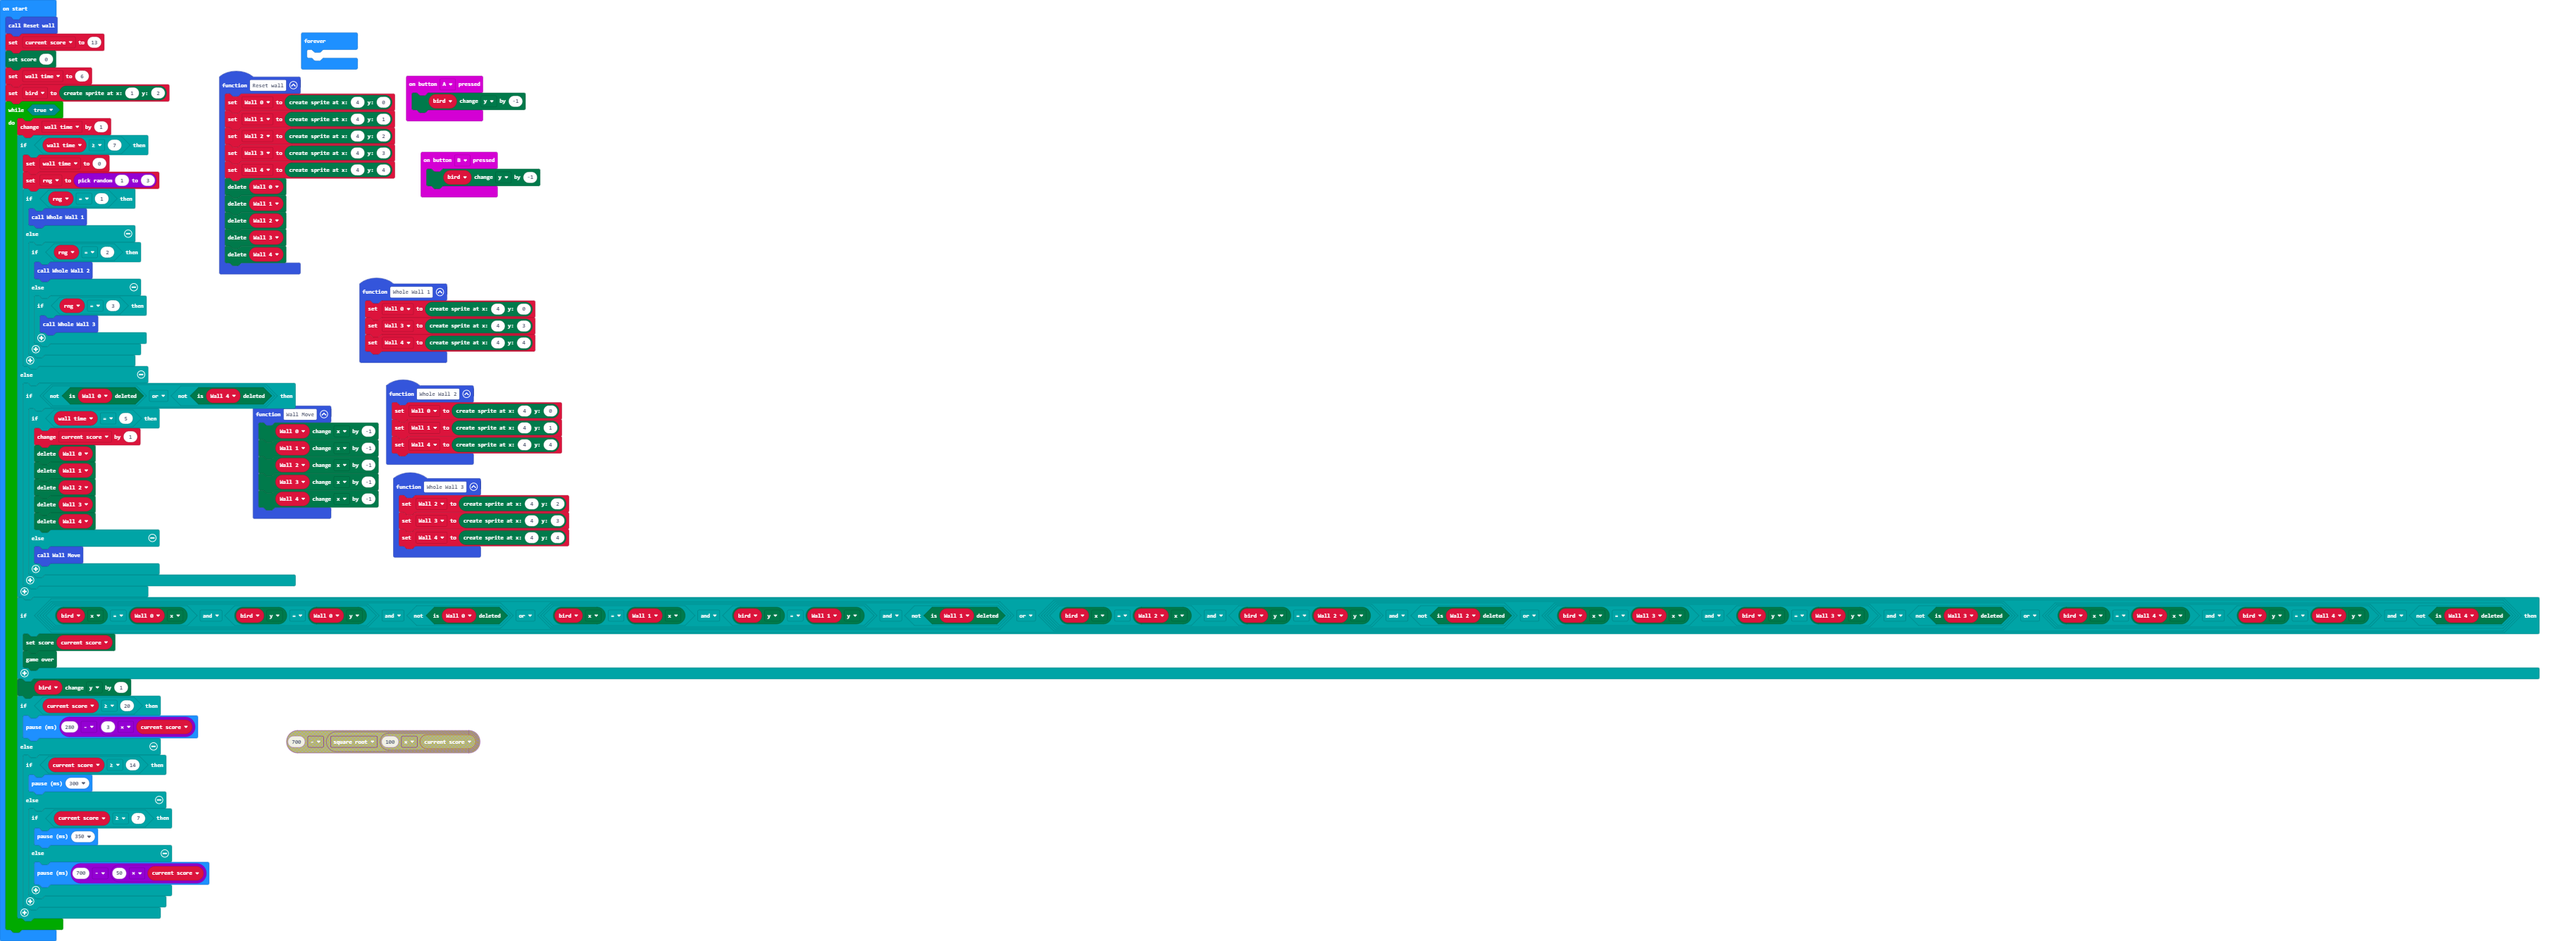
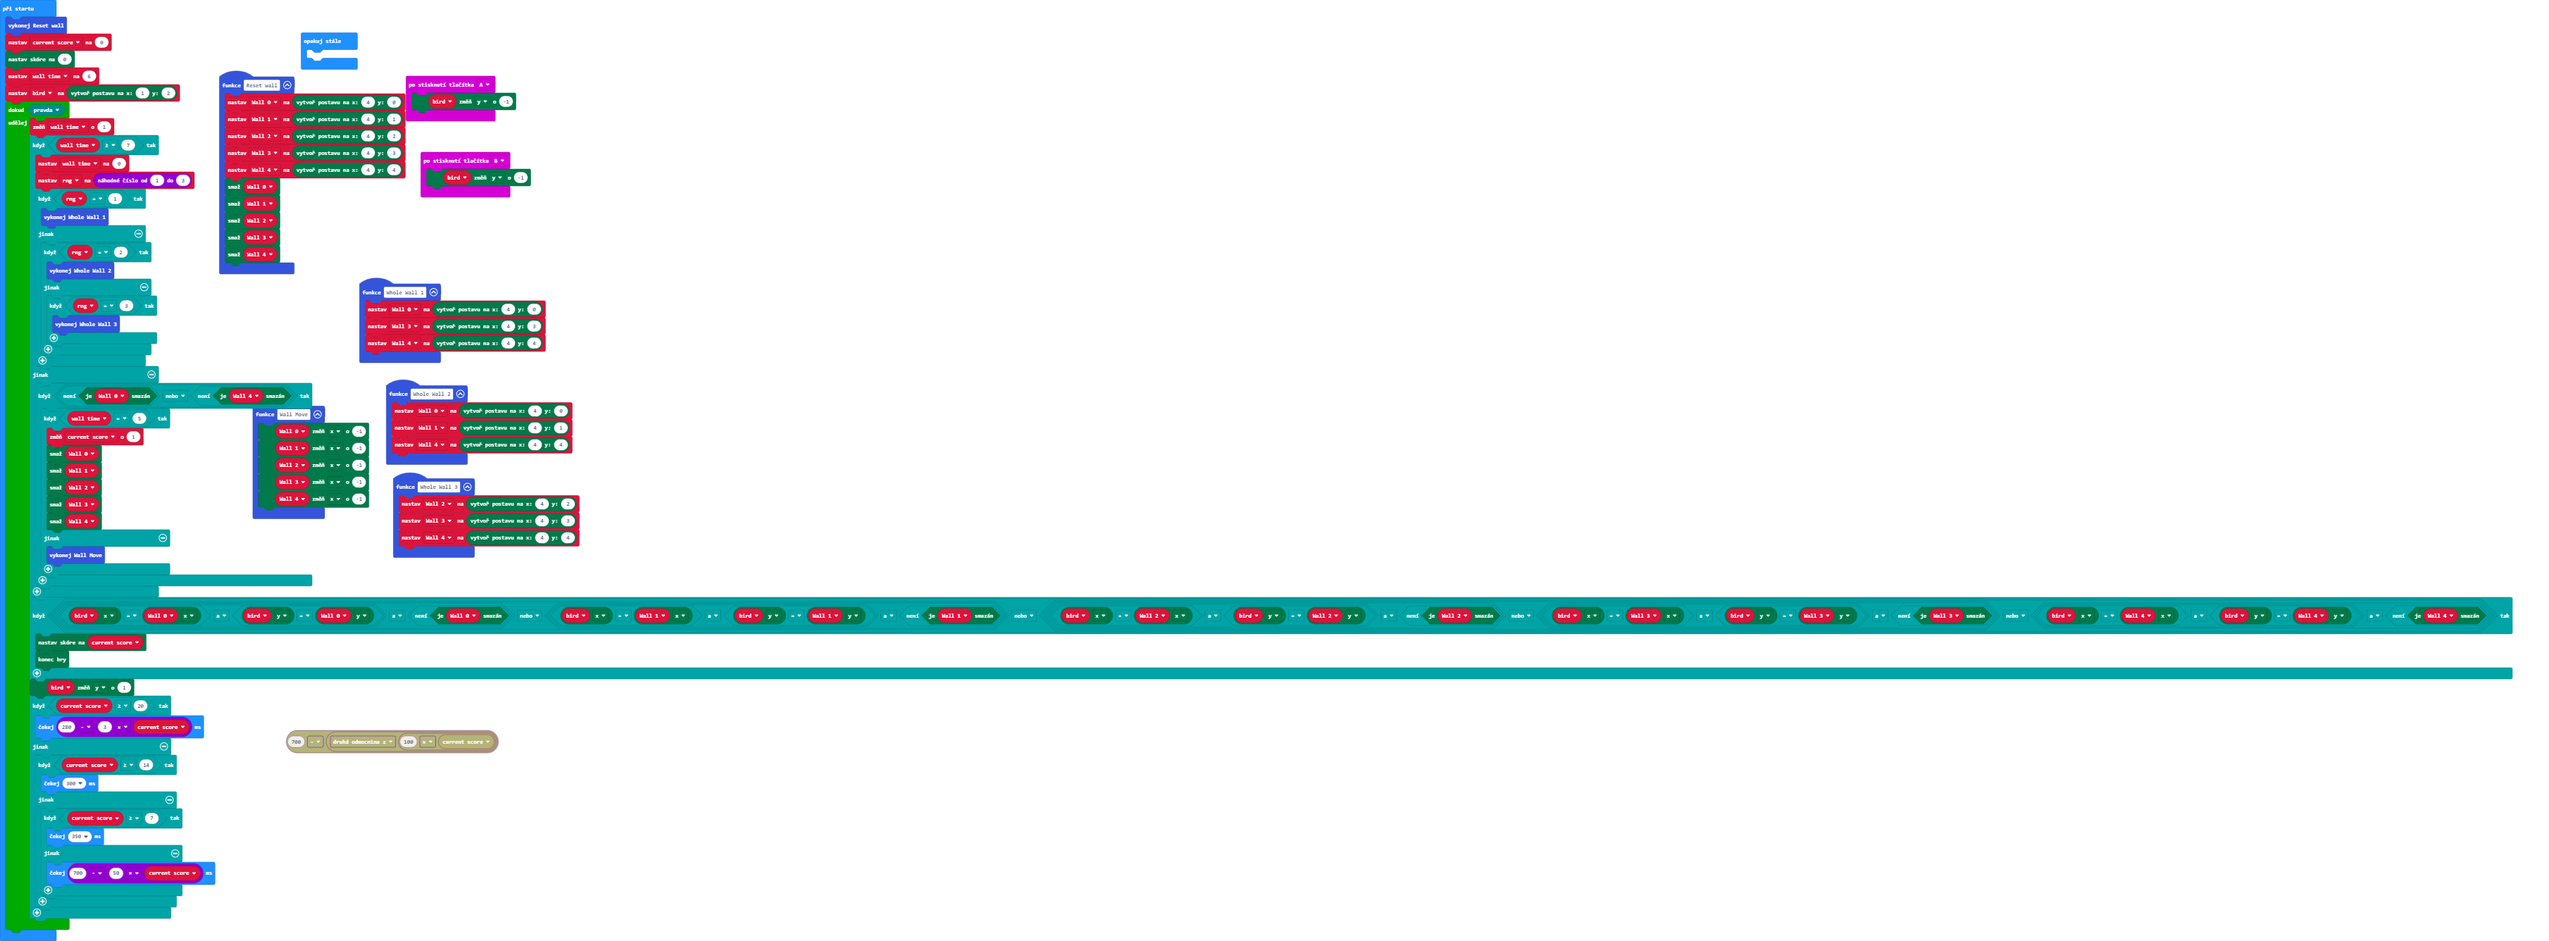
version 1.1.2

Changed region(s): [[0.0, 0.0, 0.9679, 0.982], [0.1249, 0.3069, 0.2186, 0.3683]]

diff --git a/main.ts b/main.ts
@@ -46,7 +46,7 @@ let Wall_0: game.LedSprite = null
 let rng = 0
 let bird: game.LedSprite = null
 Reset_wall()
-let current_score = 13
+let current_score = 0
 game.setScore(0)
 let wall_time = 6
 bird = game.createSprite(1, 2)
